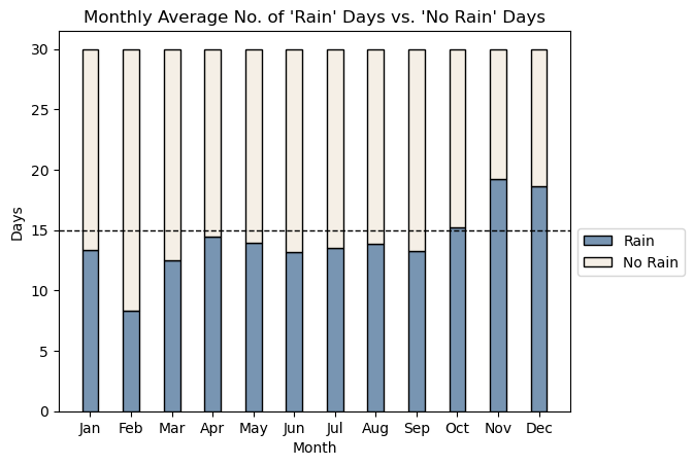
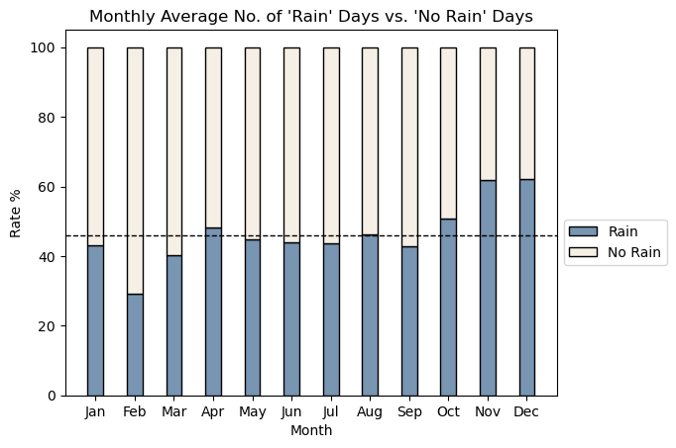
update plot 2

Changed region(s): [[0.0, 0.0625, 0.9941, 0.9688], [0.1243, 0.0, 0.8077, 0.0625]]

diff --git a/project_1/README.md b/project_1/README.md
@@ -41,7 +41,7 @@ When our nature environment is getting hotter, the demand of aircon usage is gro
 [Return to top](#Table-of-Contents)
 
 ## Brief Summary of Analysis
-Historical data shows that almost half (46%) of the days were raining over the past 40 years in Singapore. And almost half of the month is raining for most months in a year, except that Feb has relatively fewer rainy days while Nov and Dec have relatively more rainy days. 
+Historical data shows that almost half (46%) of the days were raining over the past 40 years in Singapore. Feb has relatively fewer rainy days while Nov and Dec have relatively more rainy days. 
 
 <img src="images/Picture1.png">
 <img src="images/Picture2.png">
